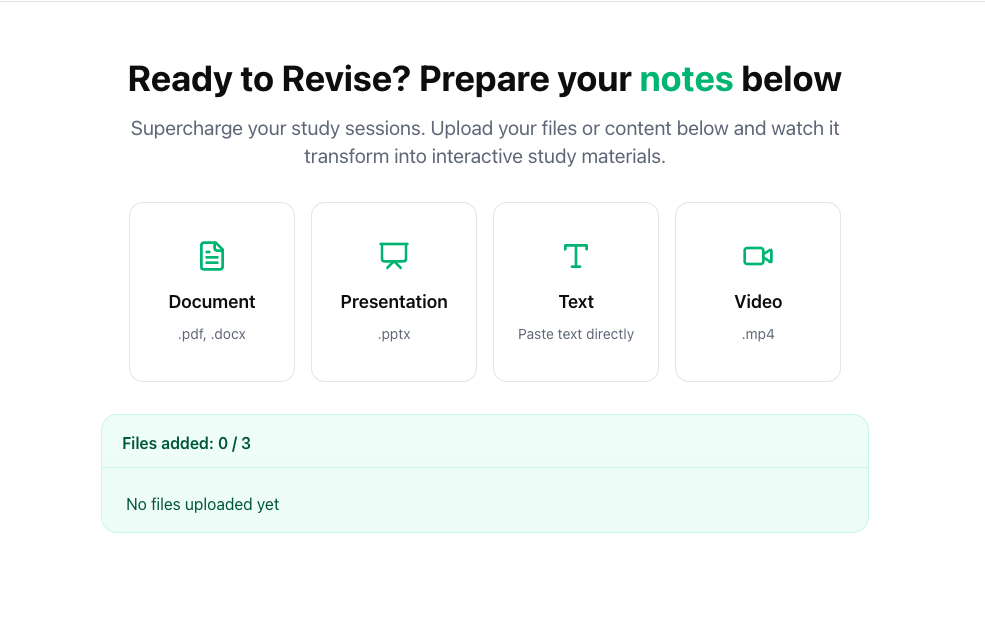
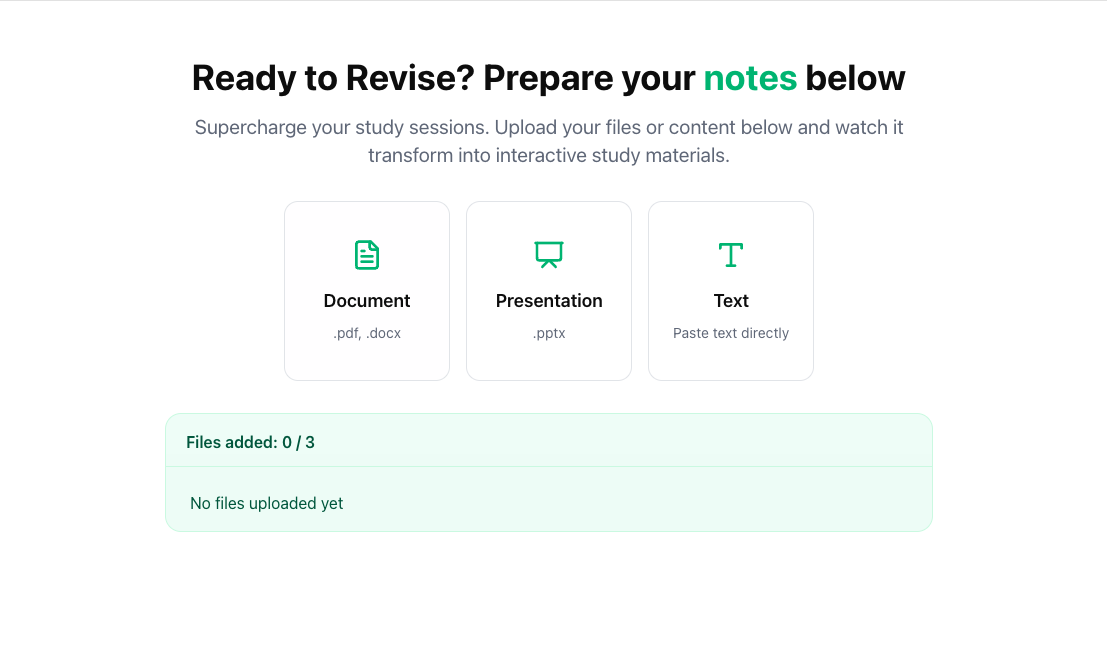
feat(data): updated image and data for beacon

diff --git a/src/data/resume.tsx b/src/data/resume.tsx
@@ -104,11 +104,11 @@ export const DATA = {
       href: "https://trybeacon.app",
       dates: "May 2025 - Present",
       description:
-        "An AI-powered study assistant that transforms your PDFs, documents, slides, and videos into interactive revision sets.",
+        "An AI-powered study assistant that transforms your PDFs, documents, slides, and text into interactive revision sets.",
       technologies: [
         "Next.js",
         "TypeScript",
-        "TailwindCSS",
+        "Tailwind CSS",
         "Supabase",
         "Drizzle ORM",
         "Vercel AI SDK",
